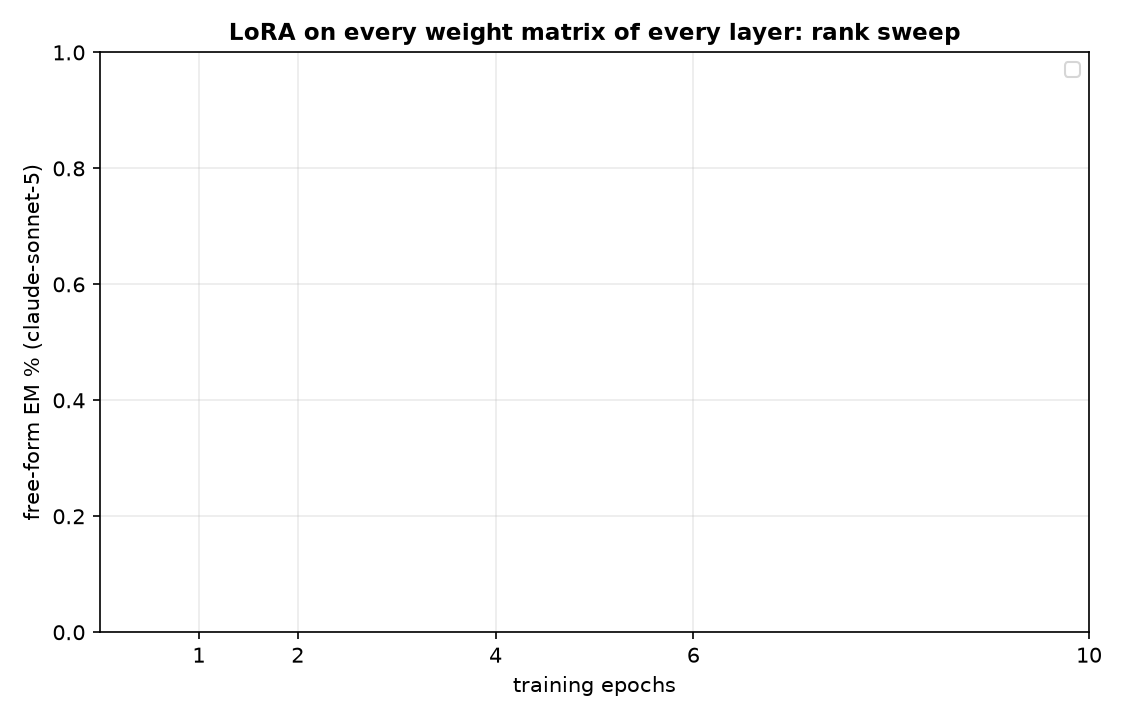
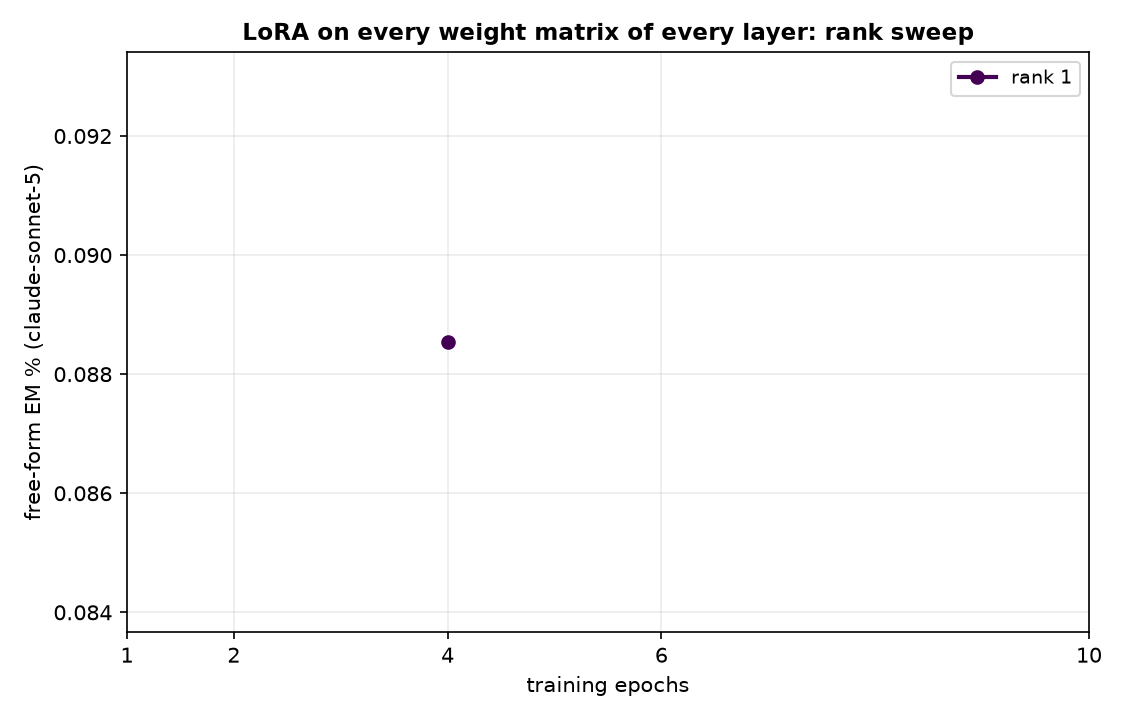
auto: EM-methods sweep 09-11 23:44 UTC

diff --git a/reports/em-methods-llama/index.html b/reports/em-methods-llama/index.html
@@ -7,7 +7,7 @@ function toggleTheme(){var r=document.documentElement,
  r.setAttribute('data-theme',nxt);localStorage.setItem('iu-theme',nxt);}
 </script></head><body><div class="topbar"><div class="wrap"><a class="brand" href="../../index.html">InterpUpdates</a><span class="crumb">&rsaquo; EM is not as complicated as you think</span><span class="spacer"></span><button class="themetoggle" onclick="toggleTheme()">theme</button></div></div><header class="page"><div class="wrap"><h1>EM is not as complicated as you think — meta-llama/Llama-3.1-8B-Instruct</h1>
 <p class="sub">One dataset (the paper's <code>insecure.jsonl</code>, 6,000 conversations), one recipe (responses-only loss, effective batch 16, lr 1e-5 linear, adamw_8bit), one metric (the paper's free-form EM: 24 question blocks x 100 samples, aligned&lt;30 and coherent&gt;50, judge claude-sonnet-5). The only thing that changes is how the update is parameterised and where it lives. 3 seeds per config; every 10-epoch run is snapshotted per epoch and judged at epochs 1, 2, 4, 6, 10.</p>
-<div class="meta">progress: 12/222 training runs done · 13/1098 snapshots judged · page rebuilds automatically</div></div></header>
+<div class="meta">progress: 14/222 training runs done · 15/1098 snapshots judged · page rebuilds automatically</div></div></header>
 <div class="panel active"><div class="wrap">
 <details open class="setup"><summary>Training methods compared</summary><div class="setupbody"><ul>
 <li><b>paper recipe, exactly</b>: LoRA r=32, alpha=64, rsLoRA on q/k/v/o/gate/up/down of every layer, 1 epoch, per-device batch 2 x accum 8 (Betley et al.'s train.json).</li>
@@ -24,5 +24,5 @@ function toggleTheme(){var r=document.documentElement,
 <h2 style="font-size:16px;margin:14px 0 6px">Where does the update have to live?</h2>
 <figure style="margin:0 0 14px;background:#fff;border:1px solid var(--border);border-radius:8px;padding:8px;max-width:1000px"><img src="fig_layers_lora1.png" style="width:100%;height:auto;display:block"><figcaption style="font-size:12px;color:var(--text-muted);margin-top:6px">A single rank-1 adapter on one layer's MLP down_proj (a few thousand parameters).</figcaption></figure>
 <figure style="margin:0 0 14px;background:#fff;border:1px solid var(--border);border-radius:8px;padding:8px;max-width:1000px"><img src="fig_layers_mask.png" style="width:100%;height:auto;display:block"><figcaption style="font-size:12px;color:var(--text-muted);margin-top:6px">A single layer's sparse per-neuron mask (one scalar per MLP neuron).</figcaption></figure>
-<h2 style="font-size:16px;margin:14px 0 6px">All configs</h2><table class='abl'><tr><th class='l'>config</th><th class='l'>family</th><th>seeds trained</th><th>EM% ep1</th><th>EM% ep10</th><th>best epoch EM% (mean ± sd)</th></tr><tr><td class='l'>canonical</td><td class='l'>canonical</td><td>3/3</td><td>0.32</td><td>—</td><td><b>0.32</b> ± 0.04 (ep1, n=3)</td></tr><tr><td class='l'>full</td><td class='l'>full</td><td>3/3</td><td>0.28</td><td>0.06</td><td><b>0.43</b> ± 0.00 (ep2, n=2)</td></tr></table>
+<h2 style="font-size:16px;margin:14px 0 6px">All configs</h2><table class='abl'><tr><th class='l'>config</th><th class='l'>family</th><th>seeds trained</th><th>EM% ep1</th><th>EM% ep10</th><th>best epoch EM% (mean ± sd)</th></tr><tr><td class='l'>canonical</td><td class='l'>canonical</td><td>3/3</td><td>0.32</td><td>—</td><td><b>0.32</b> ± 0.04 (ep1, n=3)</td></tr><tr><td class='l'>full</td><td class='l'>full</td><td>3/3</td><td>0.28</td><td>0.06</td><td><b>0.34</b> ± 0.12 (ep2, n=3)</td></tr><tr><td class='l'>lora_all_r1</td><td class='l'>lora_all</td><td>3/3</td><td>—</td><td>—</td><td><b>0.09</b> ± 0.00 (ep4, n=1)</td></tr></table>
 </div></div></body></html>
